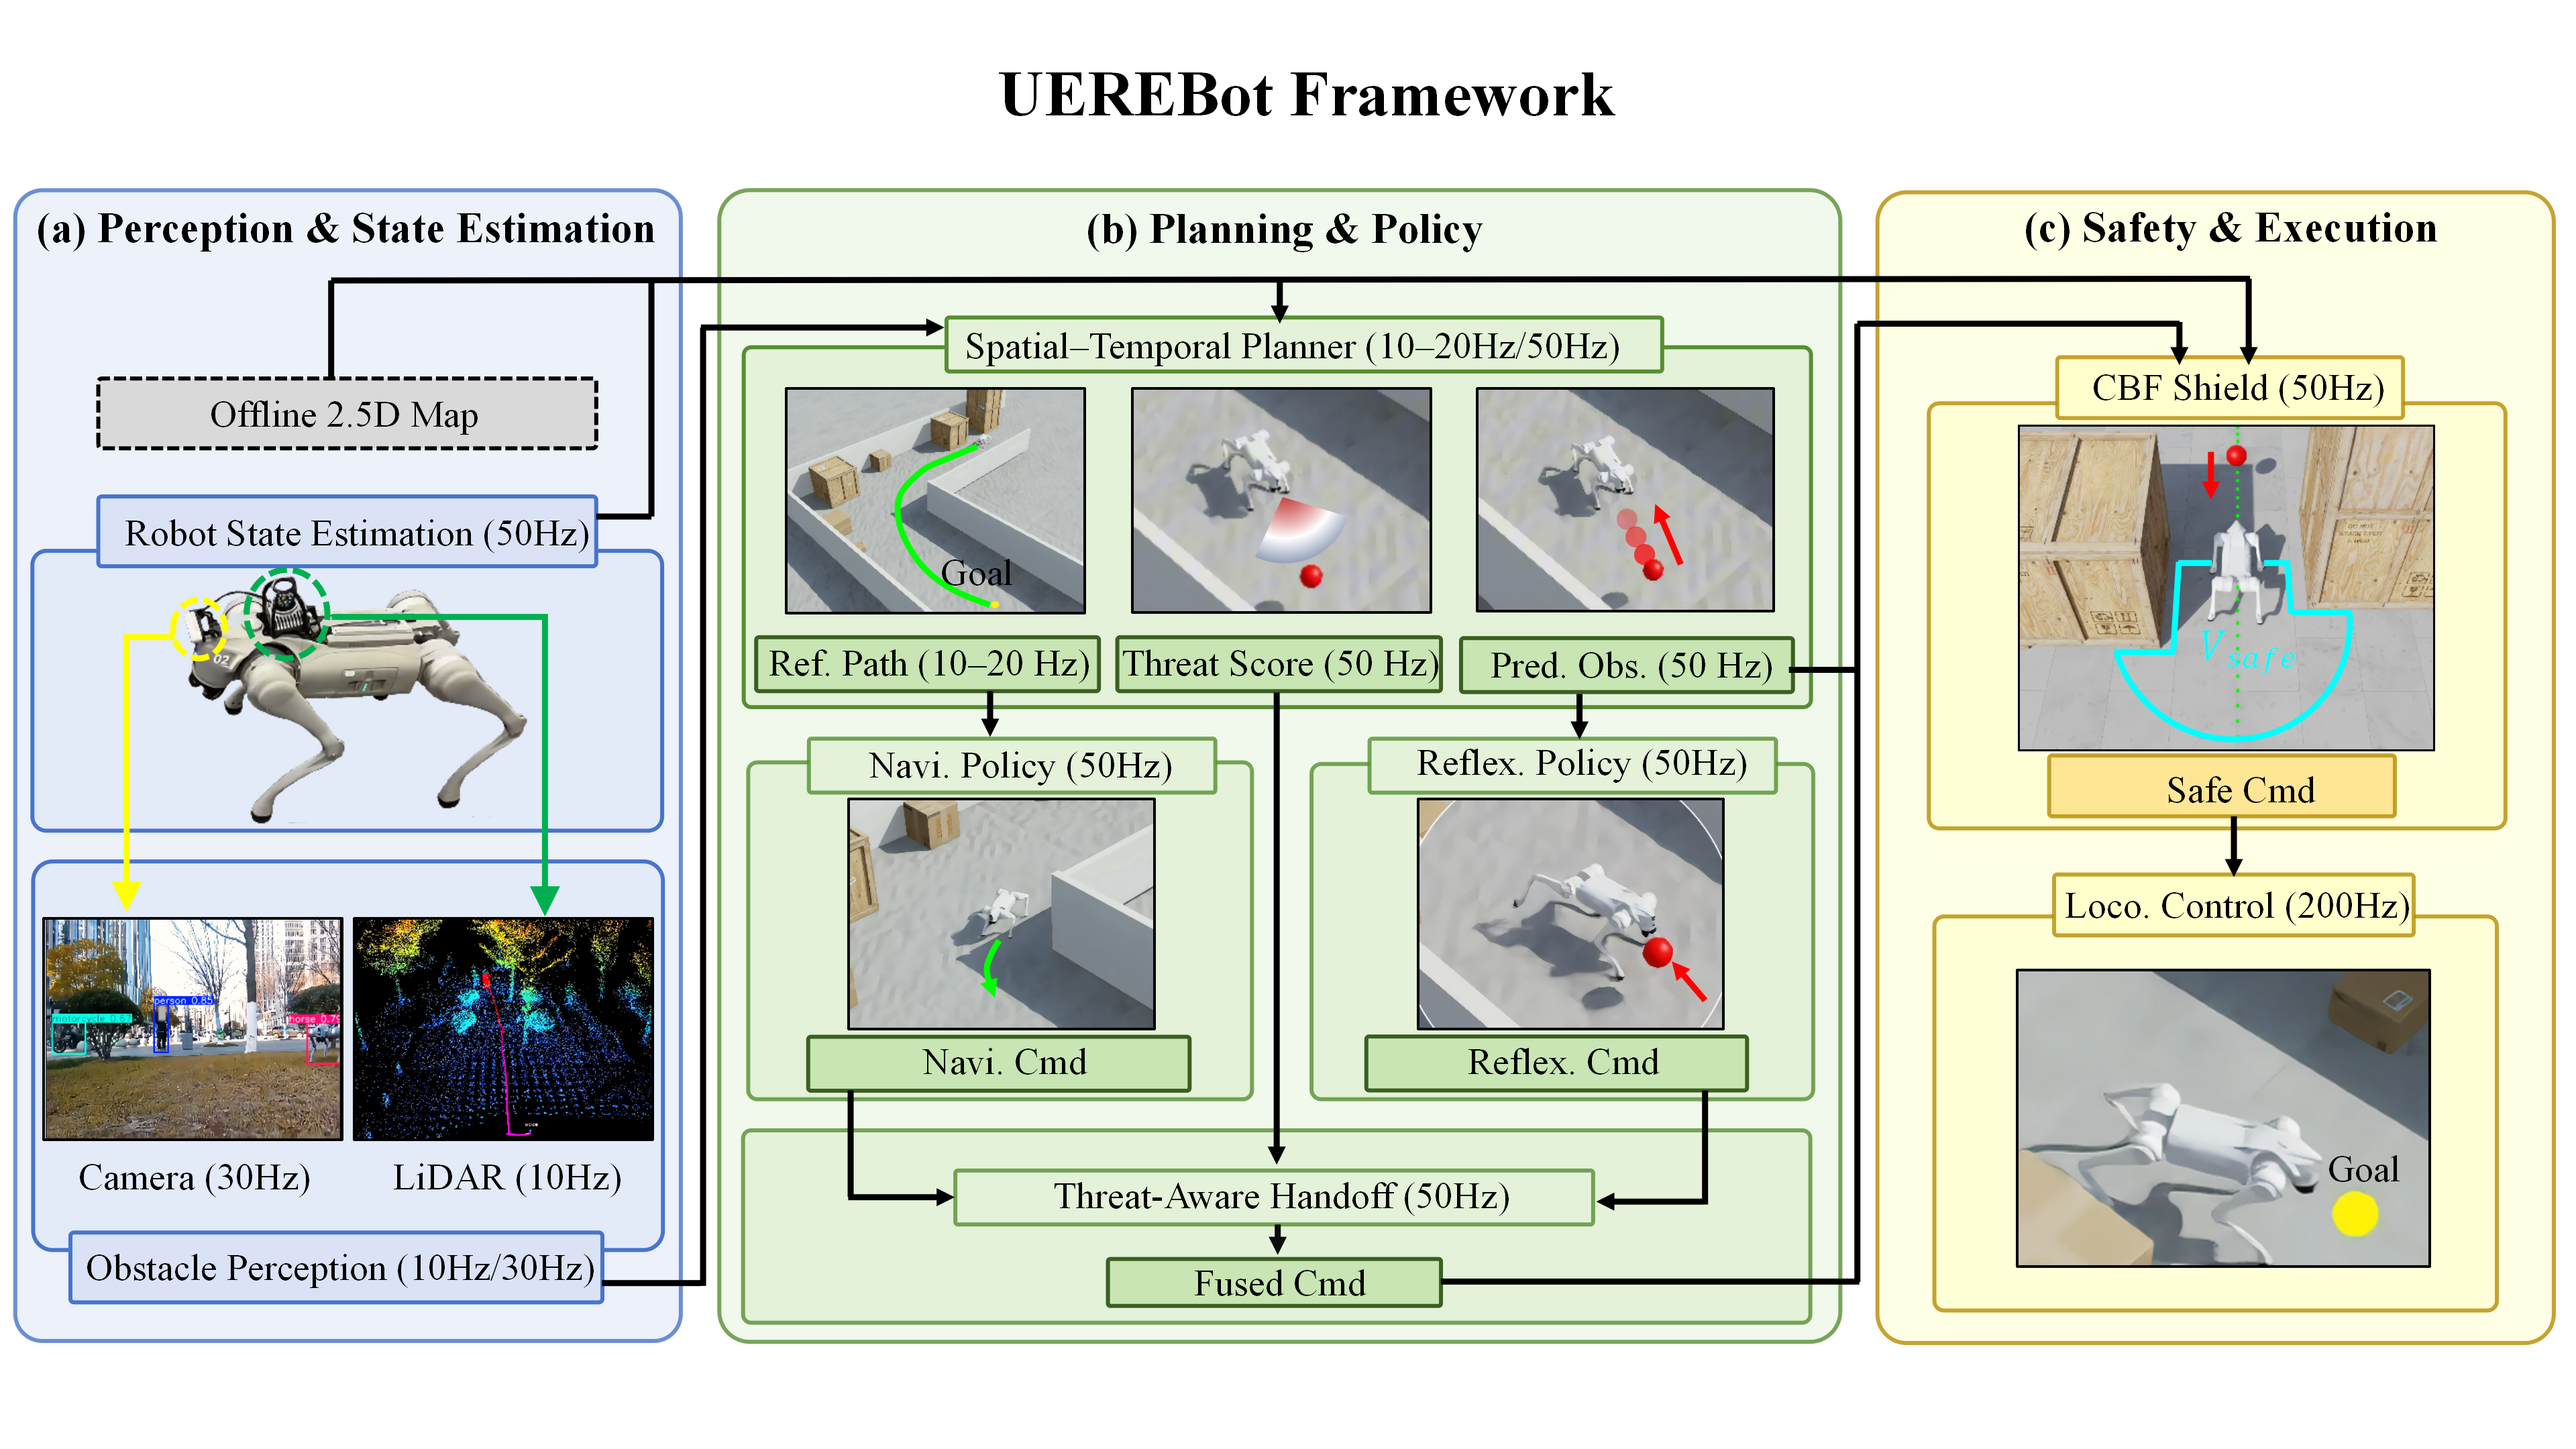
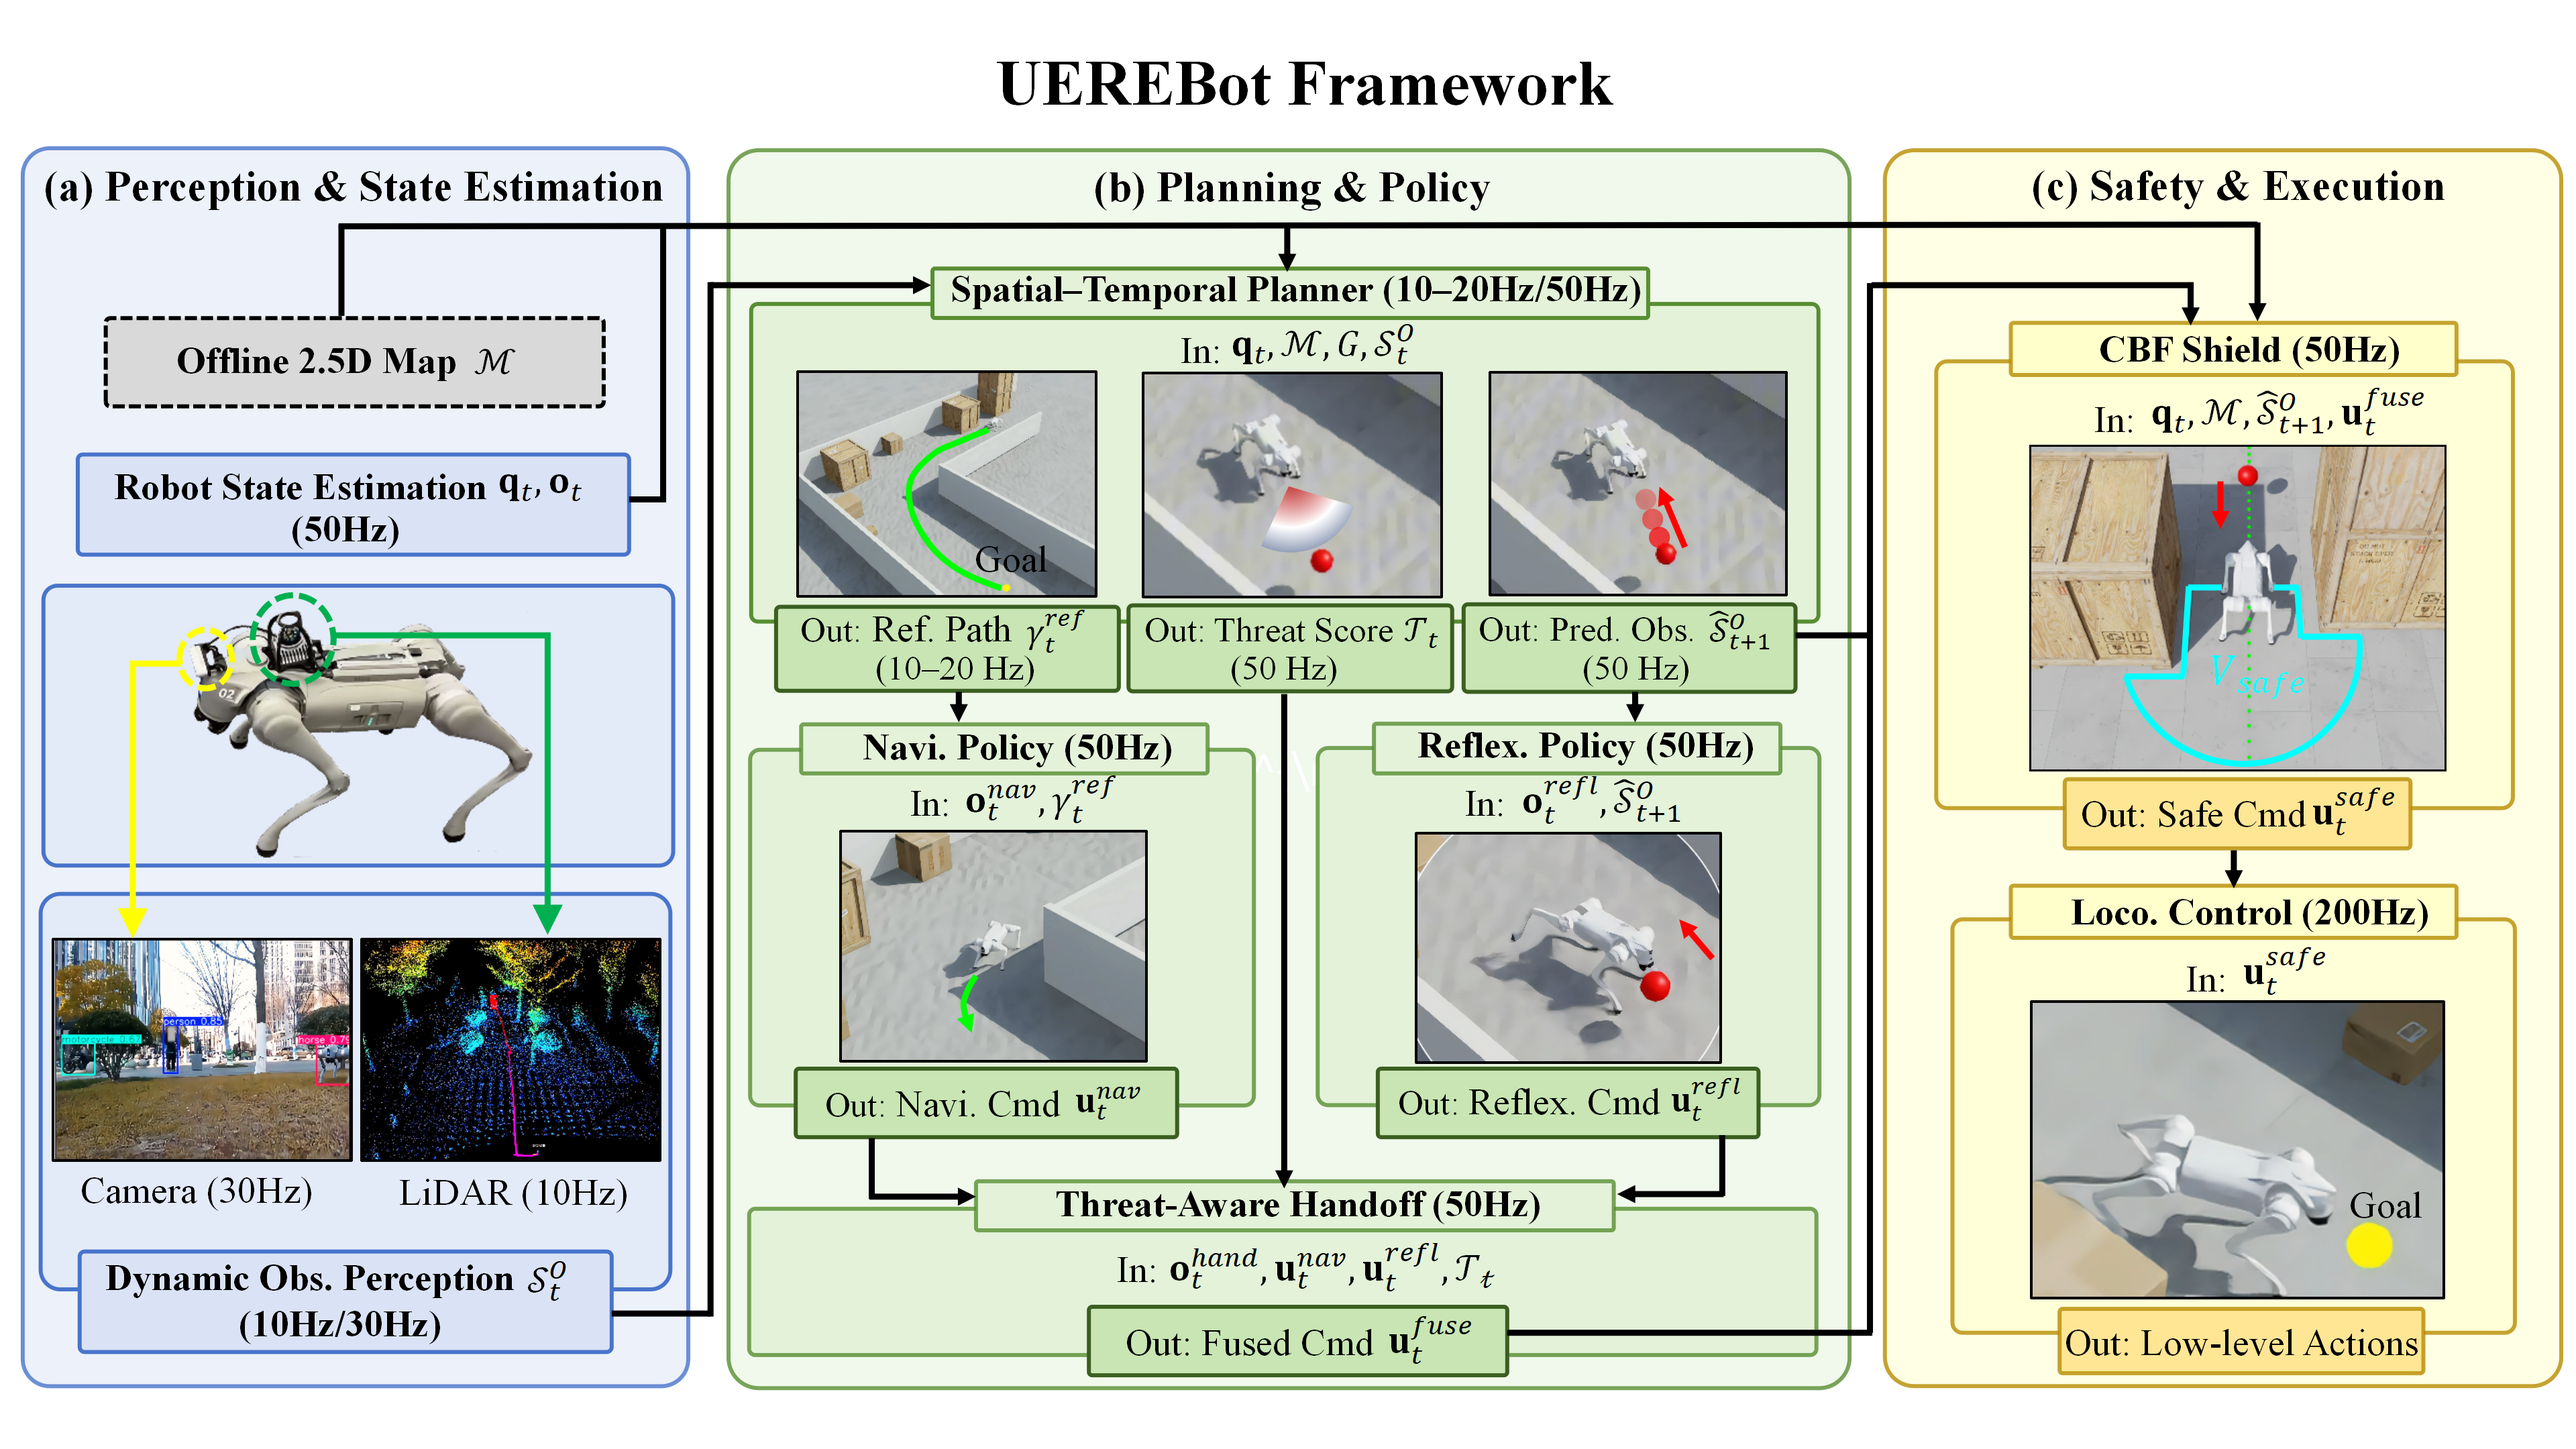
Update latest revision

diff --git a/index.html b/index.html
@@ -2,7 +2,7 @@
 <html lang="en">
 <head>
   <meta charset="UTF-8">
-  <title>UEREBot: Learning Safe Quadrupedal Locomotion under Unstructured Environments and High-Speed Dynamic Obstacles</title>
+  <title>UEREBot: Learning Safe Quadrupedal Navigation under Unstructured Environments and High-Speed Dynamic Obstacles</title>
   <meta name="viewport" content="width=device-width, initial-scale=1">
 
   <!-- Bulma CSS (same family as REBot) -->
@@ -36,12 +36,12 @@
   <section class="section has-text-centered">
     <div class="title-container">
       <h1 class="title is-1">
-        UEREBot: Learning Safe Quadrupedal Locomotion under Unstructured Environments and High-Speed Dynamic Obstacles
+        UEREBot: Learning Safe Quadrupedal Navigation under Unstructured Environments and High-Speed Dynamic Obstacles
       </h1>
     </div>
 
     <iframe class="main-video"
-      src="https://www.youtube.com/embed/T36Tda_7ye0"
+      src="https://www.youtube.com/embed/j3-Bqx4Ptiw"
       frameborder="0"
       allow="autoplay; encrypted-media"
       allowfullscreen>
@@ -53,7 +53,7 @@
     <div class="abstract">
       <h2 class="title is-3 has-text-centered">Abstract</h2>
       <p>
-        Quadruped robots are increasingly deployed in unstructured environments. Safe locomotion in these settings requires long-horizon goal progress, passability over uneven terrain and static constraints, and collision avoidance against high-speed dynamic obstacles. A single system cannot fully satisfy all three objectives simultaneously: planning-based decisions can be too slow, while purely reactive decisions can sacrifice goal progress and passability. To resolve this conflict, we propose UEREBot (Unstructured-Environment Reflexive Evasion Robot), a hierarchical framework that separates slow planning from instantaneous reflexive evasion and coordinates them during execution. UEREBot formulates the task as a constrained optimal control problem blueprint. It adopts a spatial--temporal planner that provides reference guidance toward the goal and threat signals. It then uses a threat-aware handoff to fuse navigation and reflex actions into a nominal command, and a control barrier function shield as a final execution safeguard. We evaluate UEREBot in Isaac Lab simulation and deploy it on a Unitree Go2 quadruped equipped with onboard perception. Across diverse environments with complex static structure and high-speed dynamic obstacles, UEREBot achieves higher avoidance success and more stable locomotion while maintaining goal progress than representative baselines, demonstrating improved safety--progress trade-offs.
+        Safe quadrupedal navigation in unstructured environments requires long-horizon goal progress, passability over uneven terrain and static obstacles, and collision avoidance against high-speed dynamic obstacles under limited reaction time. Planning-based decisions can be too slow, while purely reactive decisions can sacrifice goal progress and passability. To resolve this conflict, we propose UEREBot (Unstructured-Environment Reflexive Evasion Robot), a hierarchical framework that separates slow planning from instantaneous reflexive evasion and coordinates them during execution. UEREBot adopts a spatial--temporal planner that provides reference guidance toward the goal, obstacle predictions, and threat signals. It then uses a threat-aware handoff to fuse navigation and reflex commands, and a control barrier function shield as a final command filter. We evaluate UEREBot in Isaac Lab simulation and deploy it on a Unitree Go2 quadruped equipped with onboard perception. Across diverse environments with complex static structure and high-speed dynamic obstacles, UEREBot achieves higher avoidance success than representative baselines while maintaining goal progress, demonstrating improved safety--progress trade-offs.
       </p>
     </div>
   </section>
